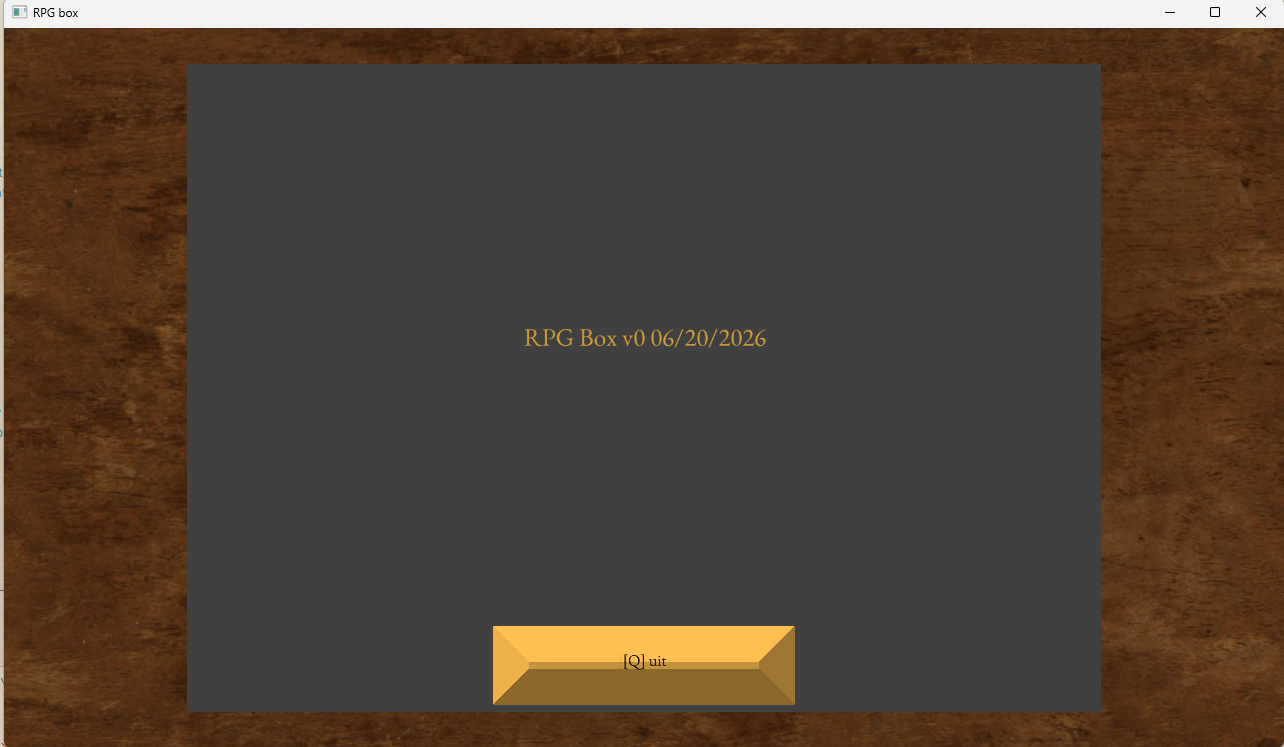
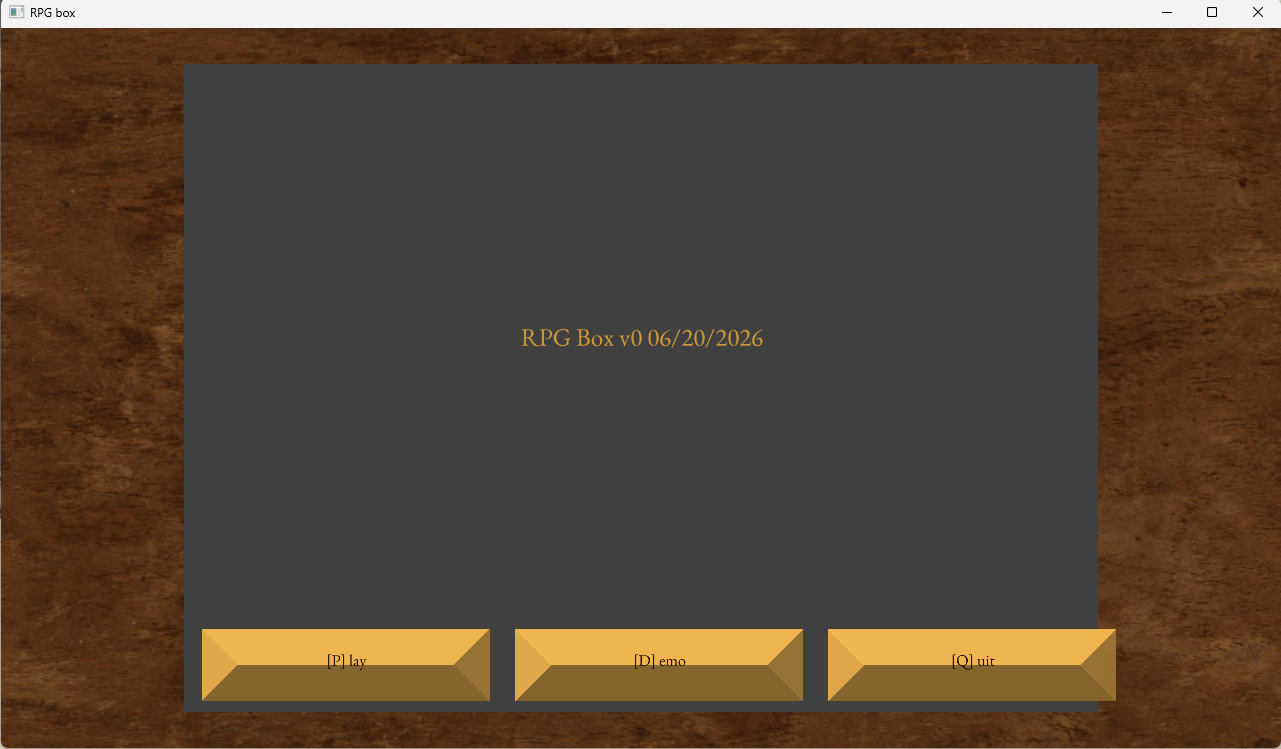
I hate gui

diff --git a/src/ui/gui.py b/src/ui/gui.py
@@ -21,9 +21,9 @@ class ActionBar(DirectFrame):
         if current_scale < 0.5:
             element["text_scale"] = (current_scale, current_scale)
         element.setScale(1)
-        element["frameSize"] = (-0.40, 0.40, -0.10, 0.10)
+        element["frameSize"] = (-0.23, 0.23, -0.07, 0.07)
         element.reparentTo(self)
-        element.setPos(0.43 + len(self._items) * 0.87, 0, 0)
+        element.setPos(0.27 + len(self._items) * 0.49, 0, 0)
         self._items.append(element)
 
     def clear_items(self):
@@ -86,7 +86,7 @@ class GuiRoot:
             parent=parent, text=shown, text_font=self.label_font,
             text_scale=(scale, scale), text_fg=self.INK,
             frameColor=(0.78, 0.58, 0.25, 0.92),
-            frameSize=(-0.42, 0.42, -0.11, 0.11), relief=DGG.RAISED,
+            frameSize=(-0.23, 0.23, -0.07, 0.07), relief=DGG.FLAT,
             command=command, extraArgs=extra_args or [],
         )
 
@@ -107,10 +107,12 @@ class GuiRoot:
         return frame
 
     def make_button_row(self, parent=None, frame_color=(0, 0, 0, 0)) -> NodePath:
+        # The first cell sits just inside the physical left edge; this also
+        # keeps the bar correct when the window is wider than 4:3.
         return ActionBar(parent=parent if parent is not None else self.base_frame,
                          frameColor=frame_color,
-                         frameSize=(0, 3.0, -0.13, 0.13),
-                         pos=(-1.25, 0, -0.77))
+                         frameSize=(0, 2.0, -0.09, 0.09),
+                         pos=(-self.screen_bounds[1] + 0.05, 0, -0.86))
 
     def make_content_frame(self, frame_color=PANEL,
                            frame_size=(-1.18, 1.18, -0.62, 0.70), pos=(0, 0, 0)) -> NodePath:
